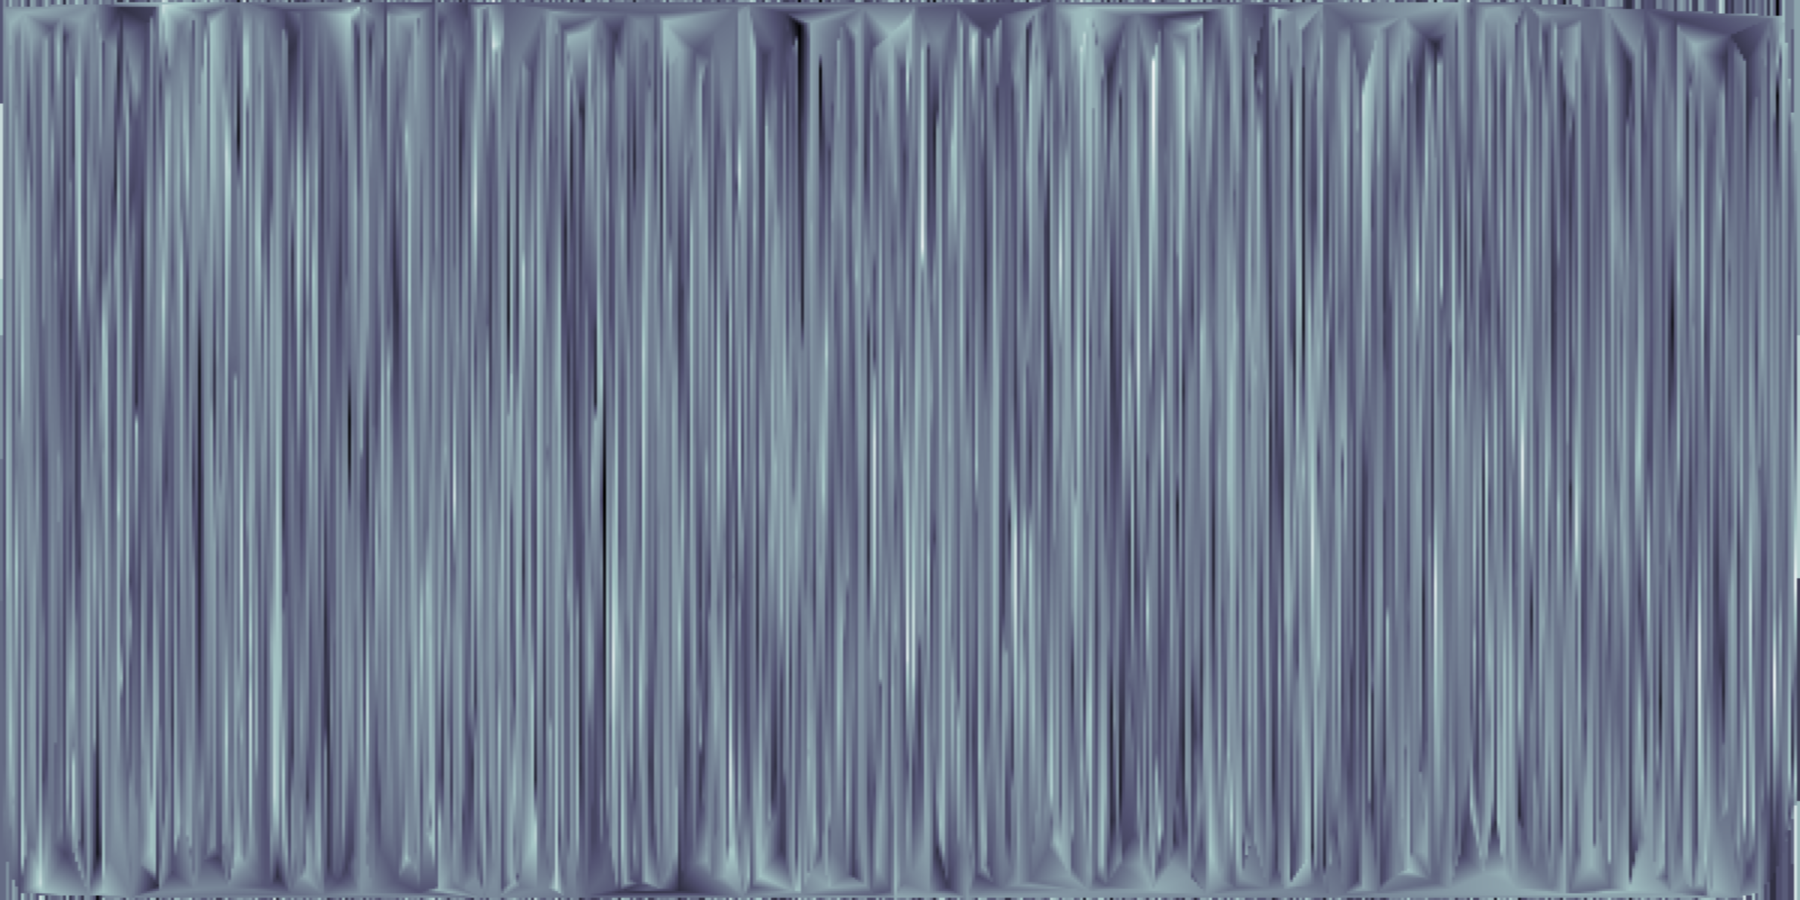
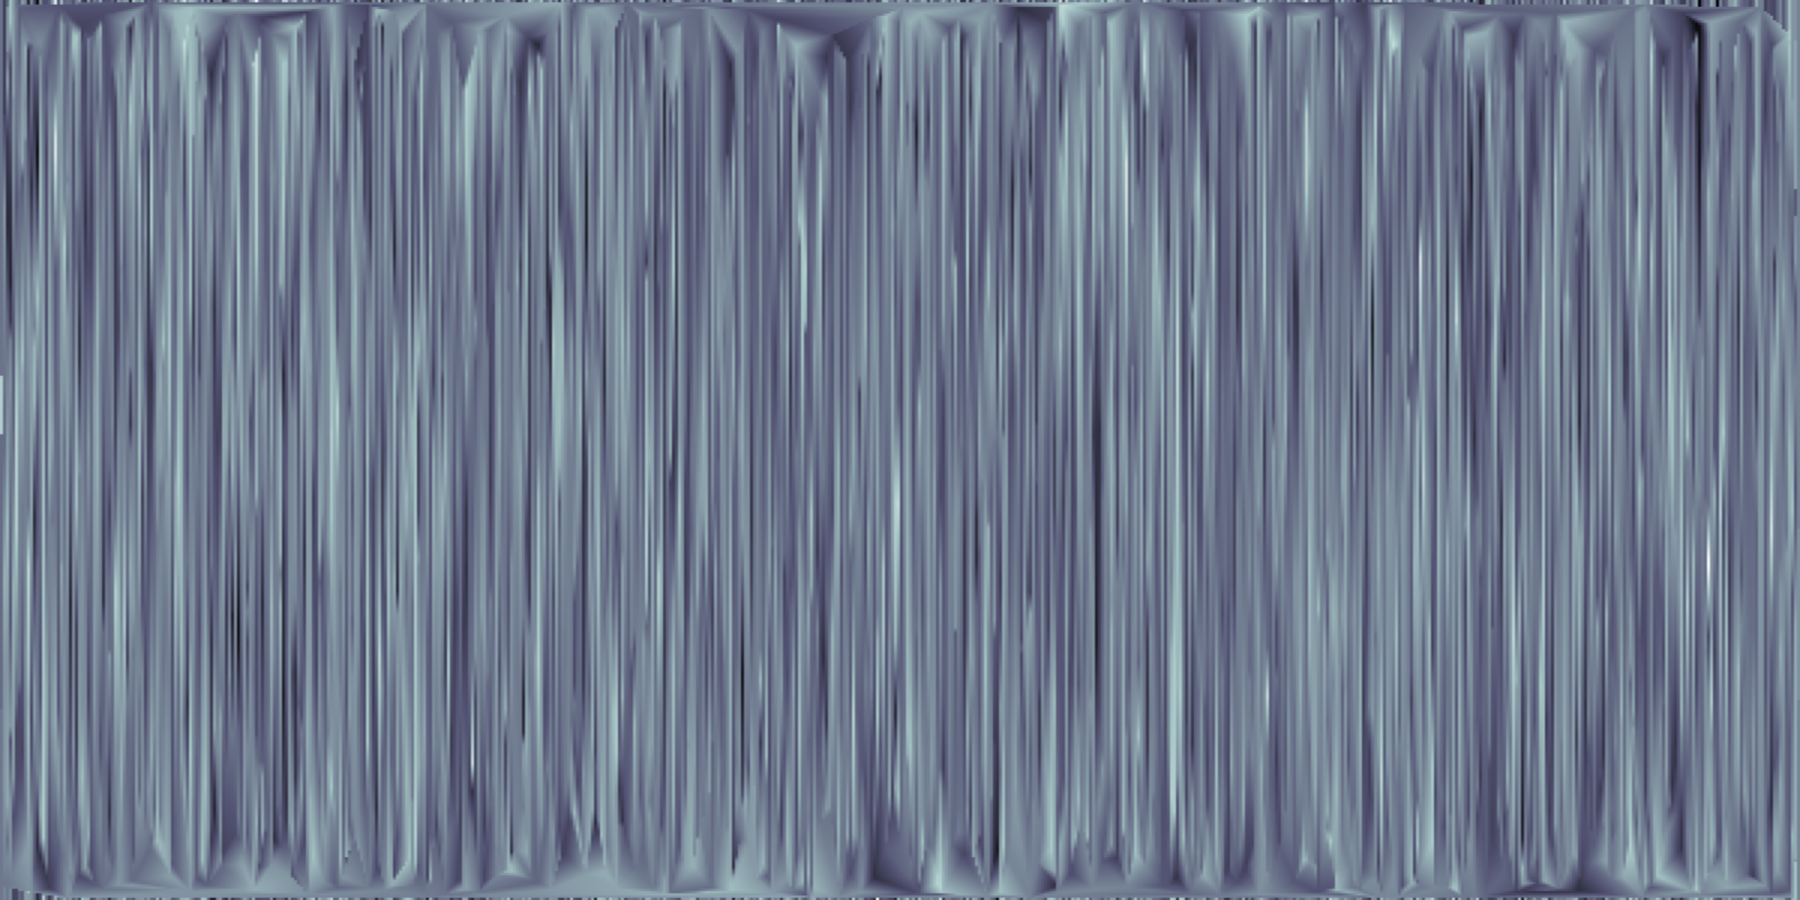
Fix: Replace CartoDB Earth basemap with OpenPlanetary interactive Moon basemap and align model coordinate overlay

diff --git a/ml-pipeline/static/script.js b/ml-pipeline/static/script.js
@@ -20,23 +20,23 @@ function initGISMap() {
     const container = document.getElementById("lunar-gis-map");
     if (!container || gisMap) return;
 
-    // Center on Lunar South Pole exploration sector (-88.95, 180.0)
+    // Center on Lunar South Pole exploration sector (-88.95, 0.0)
     gisMap = L.map("lunar-gis-map", {
-        attributionControl: false,
+        attributionControl: true,
         zoomControl: true
-    }).setView([-88.95, 180.0], 6);
+    }).setView([-88.95, 0.0], 5);
 
-    // Dark Space texture basemap
-    L.tileLayer('https://cartodb-basemaps-{s}.global.ssl.fastly.net/dark_all/{z}/{x}/{y}.png', {
-        maxZoom: 12,
-        minZoom: 4,
-        subdomains: 'abcd'
+    // Real OpenPlanetary Interactive Moon Basemap (EPSG:3857 compatible)
+    L.tileLayer('https://cartocdn-gusc.global.ssl.fastly.net/opmbuilder/api/v1/map/named/opm-moon-basemap-v0-1/all/{z}/{x}/{y}.png', {
+        maxZoom: 16,
+        minZoom: 2,
+        attribution: 'NASA LROC / OpenPlanetary Moon Basemap'
     }).addTo(gisMap);
 
     // Add Real Lunar Surface DEM Satellite Overlay (Generated directly from ISRO Telemetry Dataset)
-    const demBounds = [[-89.9, 0.0], [-88.0, 360.0]];
+    const demBounds = [[-89.9, -180.0], [-88.0, 180.0]];
     L.imageOverlay('/static/maps/real_lunar_surface_dem.png', demBounds, {
-        opacity: 0.95,
+        opacity: 0.9,
         interactive: false
     }).addTo(gisMap);
 
@@ -54,10 +54,14 @@ async function populateGISLayers() {
         const data = await res.json();
         const rows = data.rows || [];
 
+        // Helper to convert 0..360 longitude to standard planetary Web Mercator -180..180
+        const toMercLon = (lon) => (lon > 180 ? lon - 360 : lon);
+
         // Layer 1: Ice Detection (Blue glowing circles over real coordinates)
         rows.forEach((r, idx) => {
             const lat = r.Latitude !== undefined ? r.Latitude : (-88.85 + Math.sin(idx)*0.4);
-            const lon = r.Longitude !== undefined ? r.Longitude : (180.0 + Math.cos(idx)*20.0);
+            const lonRaw = r.Longitude !== undefined ? r.Longitude : (180.0 + Math.cos(idx)*20.0);
+            const lon = toMercLon(lonRaw);
             const iceProb = r.Ice_Probability !== undefined ? r.Ice_Probability : 0.75;
             
             if (iceProb > 0.2 || idx % 3 === 0) {
@@ -74,7 +78,7 @@ async function populateGISLayers() {
                     <div style="text-align:left; font-family:'Outfit',sans-serif;">
                         <h4 style="color:#00f2fe; margin-bottom:6px;">❄ Subsurface Ice Deposit</h4>
                         <p style="margin:3px 0;"><strong>Latitude:</strong> ${lat.toFixed(4)}°</p>
-                        <p style="margin:3px 0;"><strong>Longitude:</strong> ${lon.toFixed(4)}°</p>
+                        <p style="margin:3px 0;"><strong>Longitude:</strong> ${lonRaw.toFixed(4)}° (${lon.toFixed(4)}°)</p>
                         <p style="margin:3px 0;"><strong>Radar Probability:</strong> <span style="color:#00f2fe; font-weight:700;">${(iceProb*100).toFixed(1)}%</span></p>
                         <p style="margin:3px 0;"><strong>Surface Temp:</strong> ${r.Temperature || 154.2} K</p>
                     </div>
@@ -86,7 +90,8 @@ async function populateGISLayers() {
         // Layer 2: Safe Landing Sites (Green targets on real coordinates)
         rows.forEach((r, idx) => {
             const lat = r.Latitude !== undefined ? r.Latitude : (-88.85 + Math.cos(idx)*0.35);
-            const lon = r.Longitude !== undefined ? r.Longitude : (180.0 + Math.sin(idx)*18.0);
+            const lonRaw = r.Longitude !== undefined ? r.Longitude : (180.0 + Math.sin(idx)*18.0);
+            const lon = toMercLon(lonRaw);
             const slope = r.Slope !== undefined ? r.Slope : 6.4;
             const hazard = r.Hazard_Score !== undefined ? r.Hazard_Score : 15.0;
             
@@ -119,10 +124,10 @@ async function populateGISLayers() {
         const startR = safeRows[0] || rows[0] || {Latitude: -89.1, Longitude: 140.0};
         const endR = iceRows[0] || rows[rows.length-1] || {Latitude: -88.5, Longitude: 300.0};
         
-        const startPoint = [startR.Latitude, startR.Longitude];
-        const midPoint1 = [(startR.Latitude*2 + endR.Latitude)/3 + 0.05, (startR.Longitude*2 + endR.Longitude)/3 + 5];
-        const midPoint2 = [(startR.Latitude + endR.Latitude*2)/3 - 0.05, (startR.Longitude + endR.Longitude*2)/3 - 5];
-        const endPoint = [endR.Latitude, endR.Longitude];
+        const startPoint = [startR.Latitude, toMercLon(startR.Longitude)];
+        const midPoint1 = [(startR.Latitude*2 + endR.Latitude)/3 + 0.05, toMercLon((startR.Longitude*2 + endR.Longitude)/3 + 5)];
+        const midPoint2 = [(startR.Latitude + endR.Latitude*2)/3 - 0.05, toMercLon((startR.Longitude + endR.Longitude*2)/3 - 5)];
+        const endPoint = [endR.Latitude, toMercLon(endR.Longitude)];
 
         const routePolyline = L.polyline([startPoint, midPoint1, midPoint2, endPoint], {
             color: '#f59e0b',

diff --git a/ml-pipeline/generate_real_satellite_maps.py b/ml-pipeline/generate_real_satellite_maps.py
@@ -27,8 +27,12 @@ df = pd.read_csv(csv_path)
 out_dir = os.path.join(os.path.dirname(__file__), "static", "maps")
 os.makedirs(out_dir, exist_ok=True)
 
+# Convert longitude > 180 to standard Web Mercator -180..180
+df['Longitude_Mercator'] = np.where(df['Longitude'] > 180, df['Longitude'] - 360, df['Longitude'])
+
 # Grid for interpolation
 grid_lon, grid_lat = np.mgrid[0:360:600j, -89.9:-88.0:400j]
+grid_lon_merc, grid_lat_merc = np.mgrid[-180:180:600j, -89.9:-88.0:400j]
 
 print("Interpolating Elevation DEM grid...")
 grid_elev = scipy_interp.griddata(
@@ -37,6 +41,13 @@ grid_elev = scipy_interp.griddata(
     (grid_lon, grid_lat),
     method='linear'
 )
+grid_elev_merc = scipy_interp.griddata(
+    (df['Longitude_Mercator'], df['Latitude']),
+    df['Elevation'],
+    (grid_lon_merc, grid_lat_merc),
+    method='linear'
+)
+
 # Fill NaNs with nearest
 if np.isnan(grid_elev).any():
     grid_elev_nearest = scipy_interp.griddata(
@@ -46,6 +57,15 @@ if np.isnan(grid_elev).any():
         method='nearest'
     )
     grid_elev = np.where(np.isnan(grid_elev), grid_elev_nearest, grid_elev)
+
+if np.isnan(grid_elev_merc).any():
+    grid_elev_merc_nearest = scipy_interp.griddata(
+        (df['Longitude_Mercator'], df['Latitude']),
+        df['Elevation'],
+        (grid_lon_merc, grid_lat_merc),
+        method='nearest'
+    )
+    grid_elev_merc = np.where(np.isnan(grid_elev_merc), grid_elev_merc_nearest, grid_elev_merc)
 
 print("Interpolating Ice Probability grid...")
 grid_ice = scipy_interp.griddata(
@@ -85,12 +105,12 @@ plt.style.use('dark_background')
 # -------------------------------------------------------------
 # 1. Real Satellite Basemap Overlay (Clean DEM without axes)
 # -------------------------------------------------------------
-print("Generating clean real satellite DEM basemap overlay...")
+print("Generating clean real satellite DEM basemap overlay (-180 to 180)...")
 fig = plt.figure(figsize=(12, 6), dpi=150)
 ax = plt.Axes(fig, [0., 0., 1., 1.])
 ax.set_axis_off()
 fig.add_axes(ax)
-ax.imshow(grid_elev.T, extent=(0, 360, -89.9, -88.0), origin='lower', cmap='bone', aspect='auto')
+ax.imshow(grid_elev_merc.T, extent=(-180, 180, -89.9, -88.0), origin='lower', cmap='bone', aspect='auto')
 basemap_path = os.path.join(out_dir, "real_lunar_surface_dem.png")
 fig.savefig(basemap_path, dpi=150, bbox_inches='tight', pad_inches=0)
 plt.close(fig)
